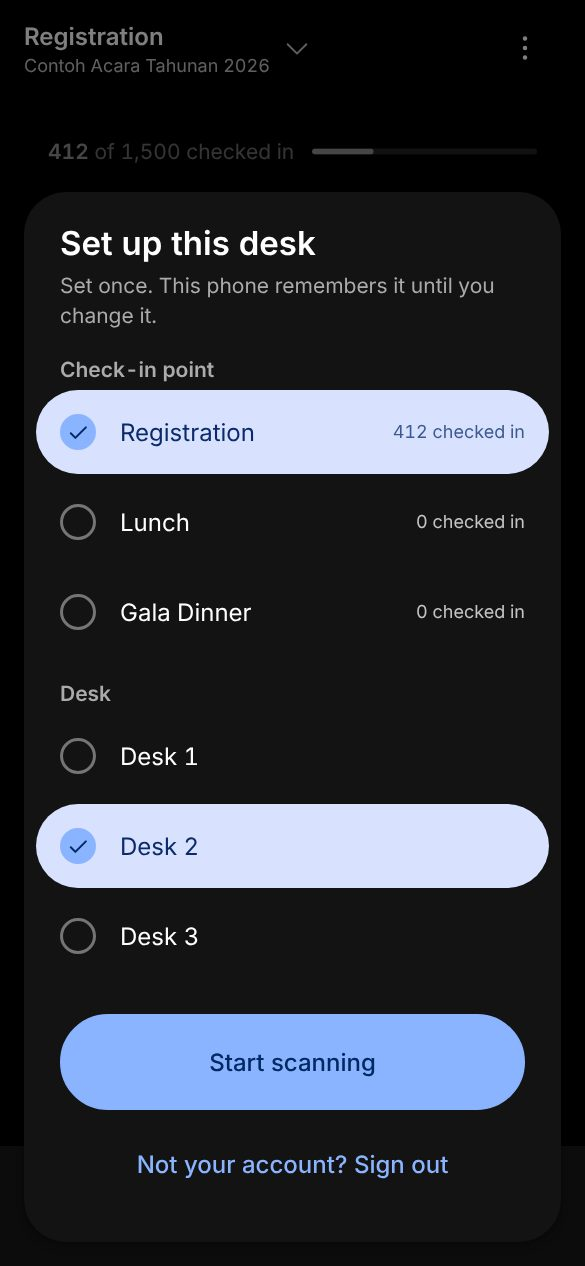
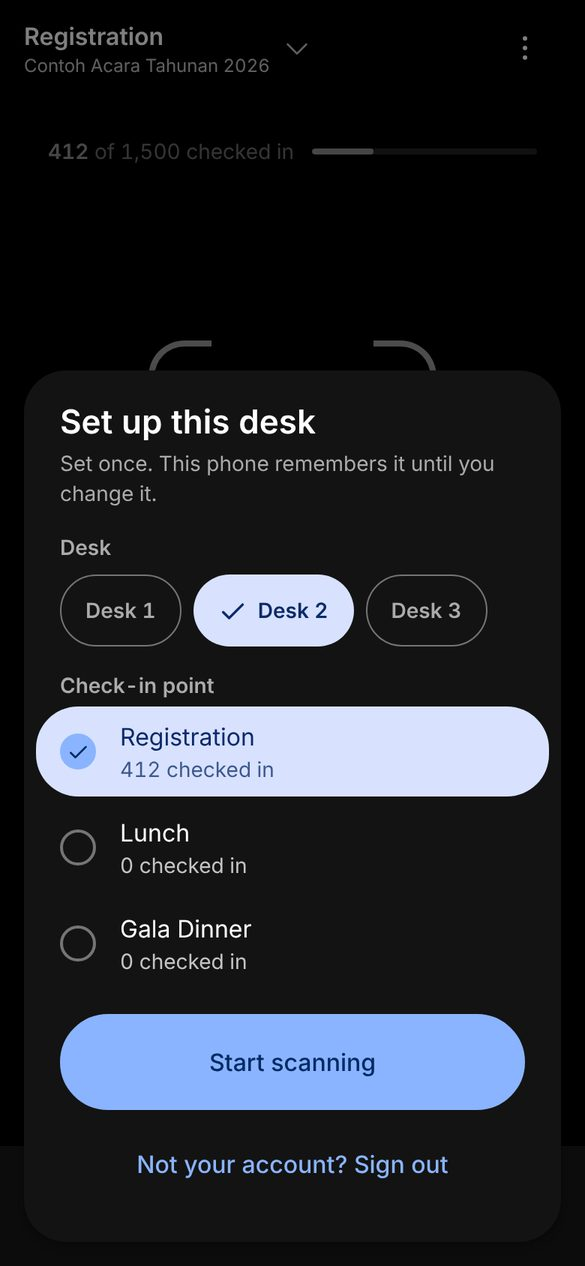
Scanner: Start scanning stays visible in the check-in point sheet (#382)
* Scanner: Start scanning stays visible in the check-in point sheet

With many check-in points and desks, the Start scanning button scrolled
below the phone screen. Pin it to the bottom of the sheet, move the
checked-in count under the name, and show desks as 48 px choice chips.
Scanner guide shots 01-02 retaken.

Claude-Session: https://claude.ai/code/session_01P7FxNWetH7jWFf6Wi27DgB

* Scanner sheet: desks above the check-in points so none hide under the button

Claude-Session: https://claude.ai/code/session_01P7FxNWetH7jWFf6Wi27DgB

* Scanner sheet: keyboard focus never lands under the pinned button

Claude-Session: https://claude.ai/code/session_01P7FxNWetH7jWFf6Wi27DgB

* Scanner sheet: selected desk chip keeps the pill shape

Claude-Session: https://claude.ai/code/session_01P7FxNWetH7jWFf6Wi27DgB

* STATUS: #382 merged

Claude-Session: https://claude.ai/code/session_01P7FxNWetH7jWFf6Wi27DgB

---------

Changed region(s): [[0.0615, 0.1848, 0.9538, 0.7701], [0.6769, 0.4621, 0.8615, 0.4929]]

diff --git a/src/app/scan/lembar-meja.tsx b/src/app/scan/lembar-meja.tsx
@@ -1,7 +1,7 @@
 "use client";
 
 import { Check, X } from "@phosphor-icons/react";
-import { useState, type ReactNode } from "react";
+import { useEffect, useState, type ReactNode } from "react";
 import { Button, Dialog } from "@/components/m3";
 import type { Jalur, Sesi } from "./types";
 
@@ -31,7 +31,7 @@ export function LembarScan({
   kaki?: ReactNode;
 }) {
   return (
-    <Dialog open={open} onClose={onClose} title={judul} bare dismissible={bolehTutup} size="md" className="!rounded-[28px] bg-surface-container-low">
+    <Dialog open={open} onClose={onClose} title={judul} bare dismissible={bolehTutup} size="md" className="scroll-pb-[120px] !rounded-[28px] bg-surface-container-low">
       <div className="flex items-center justify-between gap-2 px-6 pb-1 pt-5">
         <h2 className="text-title-large font-semibold">{judul}</h2>
         {bolehTutup ? (
@@ -47,7 +47,15 @@ export function LembarScan({
   );
 }
 
-/** Satu pilihan berbentuk baris 56 px. Radio sungguhan, supaya pembaca layar dan papan ketik bekerja. */
+/**
+ * Satu pilihan berbentuk baris, minimal 56 px. Radio sungguhan, supaya pembaca
+ * layar dan papan ketik bekerja.
+ *
+ * Dua baris (daftar M3 "two-line list item"): nama di atas memakai seluruh
+ * lebar, angka hadir di bawahnya. Dulu angka itu berdiri di kanan dan memakan
+ * sepertiga lebar ponsel, jadi nama checkpoint yang panjang patah menjadi tiga
+ * baris dan daftarnya mendorong tombol mulai keluar layar.
+ */
 function BarisPilihan({ nama, value, label, sub, dipilih, onPilih }: {
   nama: string;
   value: number;
@@ -58,21 +66,61 @@ function BarisPilihan({ nama, value, label, sub, dipilih, onPilih }: {
 }) {
   return (
     <label
-      className={`m3-state flex min-h-14 cursor-pointer items-center gap-4 rounded-2xl px-4 ${
+      className={`m3-state flex min-h-14 cursor-pointer items-center gap-4 rounded-2xl px-4 py-2 ${
         dipilih ? "bg-secondary-container text-on-secondary-container" : ""
       }`}
     >
       <input type="radio" name={nama} value={value} checked={dipilih} onChange={() => onPilih(value)} className="peer sr-only" />
-      <span
-        aria-hidden
-        className={`flex size-6 shrink-0 items-center justify-center rounded-full border-2 peer-focus-visible:outline peer-focus-visible:outline-2 peer-focus-visible:outline-offset-2 peer-focus-visible:outline-primary ${
-          dipilih ? "border-primary bg-primary text-on-primary" : "border-outline"
-        }`}
-      >
-        {dipilih ? <Check size={14} weight="bold" /> : null}
+      <TandaPilih dipilih={dipilih} />
+      <span className="min-w-0 flex-1">
+        <span className="block text-body-large">{label}</span>
+        {sub ? <span className="block text-body-medium tabular-nums opacity-75">{sub}</span> : null}
       </span>
-      <span className="min-w-0 flex-1 text-body-large">{label}</span>
-      {sub ? <span className="shrink-0 text-body-small tabular-nums opacity-75">{sub}</span> : null}
+    </label>
+  );
+}
+
+function TandaPilih({ dipilih, kecil = false }: { dipilih: boolean; kecil?: boolean }) {
+  return (
+    <span
+      aria-hidden
+      className={`flex shrink-0 items-center justify-center rounded-full border-2 peer-focus-visible:outline peer-focus-visible:outline-2 peer-focus-visible:outline-offset-2 peer-focus-visible:outline-primary ${
+        kecil ? "size-5" : "size-6"
+      } ${dipilih ? "border-primary bg-primary text-on-primary" : "border-outline"}`}
+    >
+      {dipilih ? <Check size={kecil ? 12 : 14} weight="bold" /> : null}
+    </span>
+  );
+}
+
+/**
+ * Satu meja sebagai chip pilihan tunggal.
+ *
+ * Meja dipilih sekali per ponsel dan jarang diganti, jadi ia tidak berhak atas
+ * empat baris 56 px di bawah checkpoint. Chip yang membungkus ke baris berikut
+ * muat untuk berapa pun jumlah meja dan sepanjang apa pun namanya. Bentuk dan
+ * warnanya sama dengan `FilterChip`, tetapi isinya radio, bukan tombol
+ * `aria-pressed`: memilih satu meja melepaskan yang lain, dan pembaca layar
+ * perlu mendengar itu sebagai satu kelompok. Tinggi 48 px, bukan 40: ini layar
+ * yang dipakai sambil berdiri (DESIGN.md, Booth, kasir, pemindai). Bentuknya
+ * tetap pil saat dipilih (tanpa morf sudut milik FilterChip), sama dengan baris
+ * checkpoint di lembar yang sama; border transparan menjaga lebarnya tidak bergeser.
+ */
+function ChipMeja({ value, label, dipilih, onPilih }: {
+  value: number;
+  label: string;
+  dipilih: boolean;
+  onPilih: (id: number) => void;
+}) {
+  return (
+    <label
+      className={`m3-state relative inline-flex min-h-12 cursor-pointer items-center gap-2 rounded-full border px-4 text-label-large font-semibold transition-[background-color,color,border-color] duration-200 ease-emphasized ${
+        dipilih ? "border-transparent bg-secondary-container text-on-secondary-container" : "border-outline text-on-surface-variant"
+      }`}
+    >
+      <input type="radio" name="jalur-meja" value={value} checked={dipilih} onChange={() => onPilih(value)} className="peer sr-only" />
+      {dipilih ? <Check size={18} weight="bold" aria-hidden /> : null}
+      <span className="rounded-sm peer-focus-visible:outline peer-focus-visible:outline-2 peer-focus-visible:outline-offset-4 peer-focus-visible:outline-primary">{label}</span>
     </label>
   );
 }
@@ -104,6 +152,20 @@ export function PilihMeja({
   const [jalur, setJalur] = useState<number | null>(laneId);
   const perluJalur = lanes.length > 0;
   const siap = sesi !== null && (!perluJalur || jalur !== null);
+  const [ujung, setUjung] = useState<HTMLDivElement | null>(null);
+  const [tertutup, setTertutup] = useState(false);
+
+  // Penanda ujung daftar tertutup kaki lengket = masih ada pilihan di bawah.
+  // rootMargin bawah dikurangi tinggi kaki kira-kira, supaya garisnya hilang
+  // tepat saat pilihan terakhir sudah tampak di atas tombol.
+  useEffect(() => {
+    if (!ujung || typeof IntersectionObserver === "undefined") return;
+    const pengamat = new IntersectionObserver(([masuk]) => setTertutup(!masuk.isIntersecting), {
+      rootMargin: "0px 0px -96px 0px",
+    });
+    pengamat.observe(ujung);
+    return () => pengamat.disconnect();
+  }, [ujung]);
 
   return (
     <form
@@ -112,6 +174,21 @@ export function PilihMeja({
         if (siap && sesi !== null) onSimpan(sesi, perluJalur ? jalur : null);
       }}
     >
+      {/* Hanya untuk acara yang memang punya meja. Acara satu meja tidak perlu
+          memahami konsep yang tidak dipakainya. Meja DI ATAS checkpoint: chipnya
+          pendek dan jarang berubah, jadi selalu terlihat tanpa digulir. Yang boleh
+          bergulir hanya daftar checkpoint, yang panjangnya tergantung acara. */}
+      {perluJalur ? (
+        <fieldset className="mt-4">
+          <legend className="px-6 text-title-small text-on-surface-variant">Desk</legend>
+          <div className="mt-2 flex flex-wrap gap-2 px-6">
+            {lanes.map((baris) => (
+              <ChipMeja key={baris.id} value={baris.id} label={baris.name} dipilih={jalur === baris.id} onPilih={setJalur} />
+            ))}
+          </div>
+        </fieldset>
+      ) : null}
+
       <fieldset className="mt-4">
         <legend className="px-6 text-title-small text-on-surface-variant">Check-in point</legend>
         <div className="mt-1 space-y-1 px-2">
@@ -132,20 +209,19 @@ export function PilihMeja({
         </div>
       </fieldset>
 
-      {/* Hanya untuk acara yang memang punya meja. Acara satu meja tidak perlu
-          memahami konsep yang tidak dipakainya. */}
-      {perluJalur ? (
-        <fieldset className="mt-4">
-          <legend className="px-6 text-title-small text-on-surface-variant">Desk</legend>
-          <div className="mt-1 space-y-1 px-2">
-            {lanes.map((baris) => (
-              <BarisPilihan key={baris.id} nama="jalur-meja" value={baris.id} label={baris.name} dipilih={jalur === baris.id} onPilih={setJalur} />
-            ))}
-          </div>
-        </fieldset>
-      ) : null}
+      {/* Penanda ujung daftar: selama ia belum terlihat, ada pilihan di bawah kaki. */}
+      <div ref={setUjung} aria-hidden className="h-px" />
 
-      <div className="px-6 pb-6 pt-6">
+      {/* Kaki lengket: tombol mulai selalu terlihat, seberapa pun panjang daftarnya.
+          Sebelumnya ia ikut bergulir di dasar lembar, dan di ponsel dengan enam
+          checkpoint dan empat meja petugas tidak tahu ada tombol yang harus
+          ditekan (M3: aksi dialog tetap di tempat, hanya isinya yang bergulir).
+          Garis atas hanya muncul saat ada pilihan yang tertutup kaki ini. */}
+      <div
+        className={`sticky bottom-0 z-10 bg-surface-container-low px-6 pb-6 pt-4 ${
+          tertutup ? "border-t border-outline-variant" : ""
+        }`}
+      >
         <Button type="submit" size="xl" shape="pill" block disabled={!siap}>
           {sesi === null ? "Choose a check-in point first" : !siap ? "Choose a desk first" : "Start scanning"}
         </Button>

diff --git a/public/panduan/scanner.html b/public/panduan/scanner.html
@@ -113,9 +113,9 @@ footer { margin-top: 36px; color: var(--muted); font-size: 13px; }
     <h2><span class="no">1</span>Pilih sesi dan meja</h2>
     <p>Saat pertama dibuka, layar langsung menampilkan <span class="ui">Set up this desk</span>. Lembar ini tidak bisa ditutup sebelum diisi.</p>
     <ol class="steps">
-      <li>Di <span class="ui">Check-in point</span>, pilih sesi yang sedang berjalan, misalnya <span class="ui">Registration</span>. Angka di kanan adalah jumlah orang yang sudah hadir di sesi itu.</li>
-      <li>Di <span class="ui">Desk</span>, pilih meja tempat Anda berdiri. Bagian ini hanya muncul kalau acara punya lebih dari satu meja.</li>
-      <li>Tekan <span class="ui">Start scanning</span>. Tombolnya baru aktif setelah sesi dan meja dipilih.</li>
+      <li>Di <span class="ui">Desk</span>, pilih meja tempat Anda berdiri (di bagian atas lembar). Bagian ini hanya muncul kalau acara punya lebih dari satu meja.</li>
+      <li>Di <span class="ui">Check-in point</span>, pilih sesi yang sedang berjalan, misalnya <span class="ui">Registration</span>. Angka di bawah namanya adalah jumlah orang yang sudah hadir di sesi itu.</li>
+      <li>Tekan <span class="ui">Start scanning</span> di bawah lembar. Tombolnya baru aktif setelah sesi dan meja dipilih. Tombol ini selalu terlihat; kalau daftar sesinya panjang, gulir daftarnya, bukan mencari tombolnya.</li>
     </ol>
     <div class="pair">
       <figure><img src="/panduan/scanner/01-siapkan-meja.jpg" alt="Lembar Set up this desk sebelum meja dipilih" loading="lazy"><figcaption>Belum lengkap: tombol masih abu-abu</figcaption></figure>

diff --git a/docs/STATUS.md b/docs/STATUS.md
@@ -15,6 +15,7 @@ Current state only. History is in `git log` and PR descriptions. Last updated: 2
 
 ## In flight
 
+- Scanner "Change check-in point or desk" sheet (Mas 3 Nov: with 6 check-in points and 4 desks the Start scanning button sat below the phone screen): Start scanning is pinned to the bottom of the sheet (a thin line shows while choices are hidden under it), the "N checked in" count moves under the name so long names keep two lines, and desks are 48 px choice chips above the check-in points (always visible without scrolling) instead of full rows below them. A choice still applies only on Start scanning. Staff /scan only, no SQL. Scanner guide shots 01-02 retaken. #382 merged 3 Nov before the KSO rehearsal (QA GO, keyboard fix M-1 and pill-shaped selected chip pushed after; delta check runs after merge, Mas OK). Parked Lows: the setup sheet opens with a focus ring on the first desk chip (looks half-picked, also in guide shot 01); the focus ring on a selected chip in the dark phone theme is 1.6:1 (same as the rows before).
 - Vehicle on the scan result follows the session's Agenda time (Mas 3 Nov: Vehicle showed "Not set" while testing although vehicles are assigned per trip): when the session's checkpoint is linked to Agenda rows, Shown after scan > Vehicle shows the participant's trip that departs last before that row's time on the same day (else the first one after it that day; no trip that day = default vehicle or Not set), so a rehearsal shows the same as the day itself. Unlinked sessions keep the scan-date rule, now falling forward to the next trip like Hotel. Menu tag "trip for this session". Staff /scan only, no SQL. PR open, waits on QA and Mas's timing OK.
 - Printable checkpoint QR (Mas 2 Nov, a client wants the checkpoint QR on a poster): Check-in > Checkpoints > checkpoint scanned by participants > Checkpoint QR: "Changes every 30 seconds" (default, as before) or "Fixed, can be printed". Fixed = one code per scan session and code number, valid only while the session is Open; "Print poster (A4)" and "Make a new code…" (old posters refused with their own message); amber warning when a lucky draw prize uses check-ins or checkpoints. Scanner Show QR and the screen view show the same code without the countdown. Stored per scan session; SQL `202611020001_checkpoint_qr_tetap` (three columns, defaults keep every event at 0 px). SQL run on production 2 Nov, post-check true. #378 merged 2 Nov (QA GO, Mas OK). Parked Lows: the poster's top line still says "Loading…" beside an error; saving a checkpoint whose When is refused (422) still switches its session to Fixed; the lucky draw warning is not indented like the Checkpoint QR choice.
 - Luggage number on the Bagasi card (Mas 2 Nov: the big number above "2 bagasi" looked stuck on): the number now sits in the grey key-fact strip ("Nomor bagasi A-045"), the same strip as the hotel room and the train carriage and seat; "2 bagasi" stays the card headline. Before drop-off the card shows the strip and "Sebutkan nomor ini di meja bagasi.". Horizon and Trip, participant area only, no SQL. #377 merged 2 Nov (QA GO, Mas OK).
